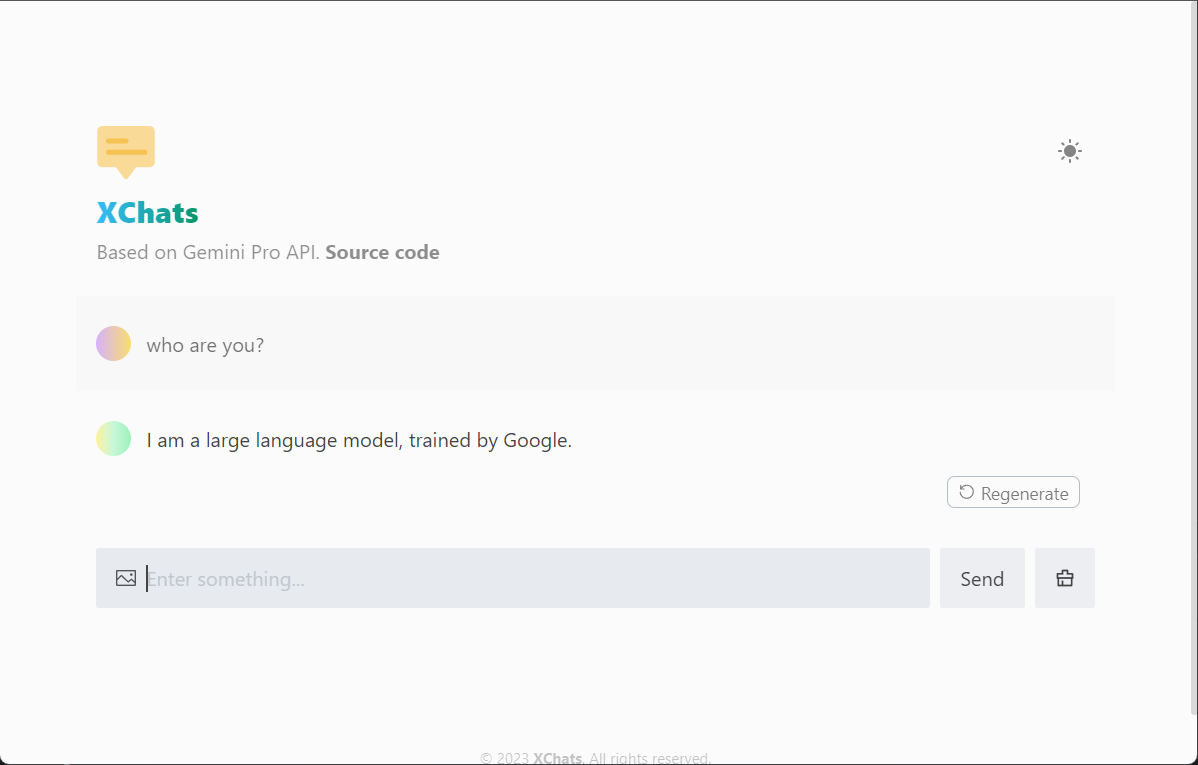
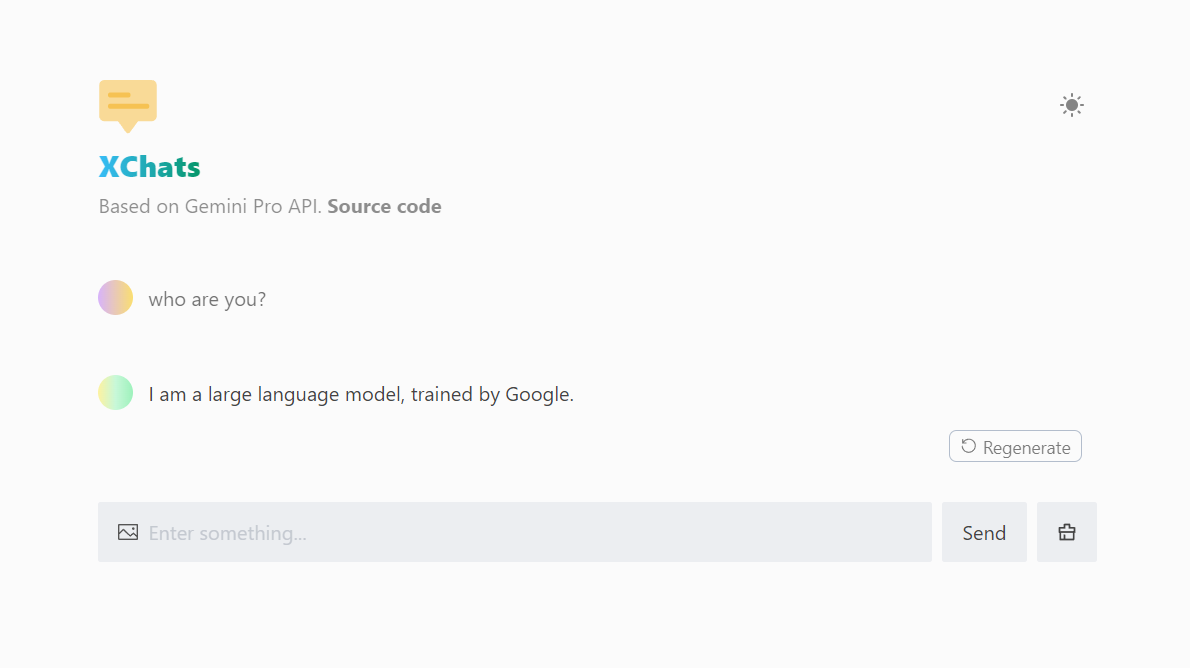
add xchats demo image

diff --git a/README_cn.md b/README_cn.md
@@ -11,7 +11,7 @@
 > 
 > 根据[《生成式人工智能服务管理暂行办法》](http://www.cac.gov.cn/2023-07/13/c_1690898327029107.htm)的要求，请勿对中国地区公众提供一切未经备案的生成式人工智能服务。
 
-[![image](https://github.com/babaohuang/GeminiProChat/assets/559171/d02fd440-401a-410d-a112-4b10935624c6)](https://xchats.top)
+[![image](https://github.com/jenkincs/xchats-gemini-pro/blob/main/public/xchats-chat-demo.png?raw=true)](https://xchats.top)
 
 ## 部署
 

diff --git a/README.md b/README.md
@@ -6,7 +6,7 @@ Minimal web UI for ChatGPT using GeminiPro API.
 
 Live demo: [XChats](https://xchats.top)
 
-[![image](https://github.com/babaohuang/GeminiProChat/assets/559171/d02fd440-401a-410d-a112-4b10935624c6)](https://xchats.top/)
+[![image](https://github.com/jenkincs/xchats-gemini-pro/blob/main/public/xchats-chat-demo.png?raw=true)](https://xchats.top/)
 
 ## Deploy
 
